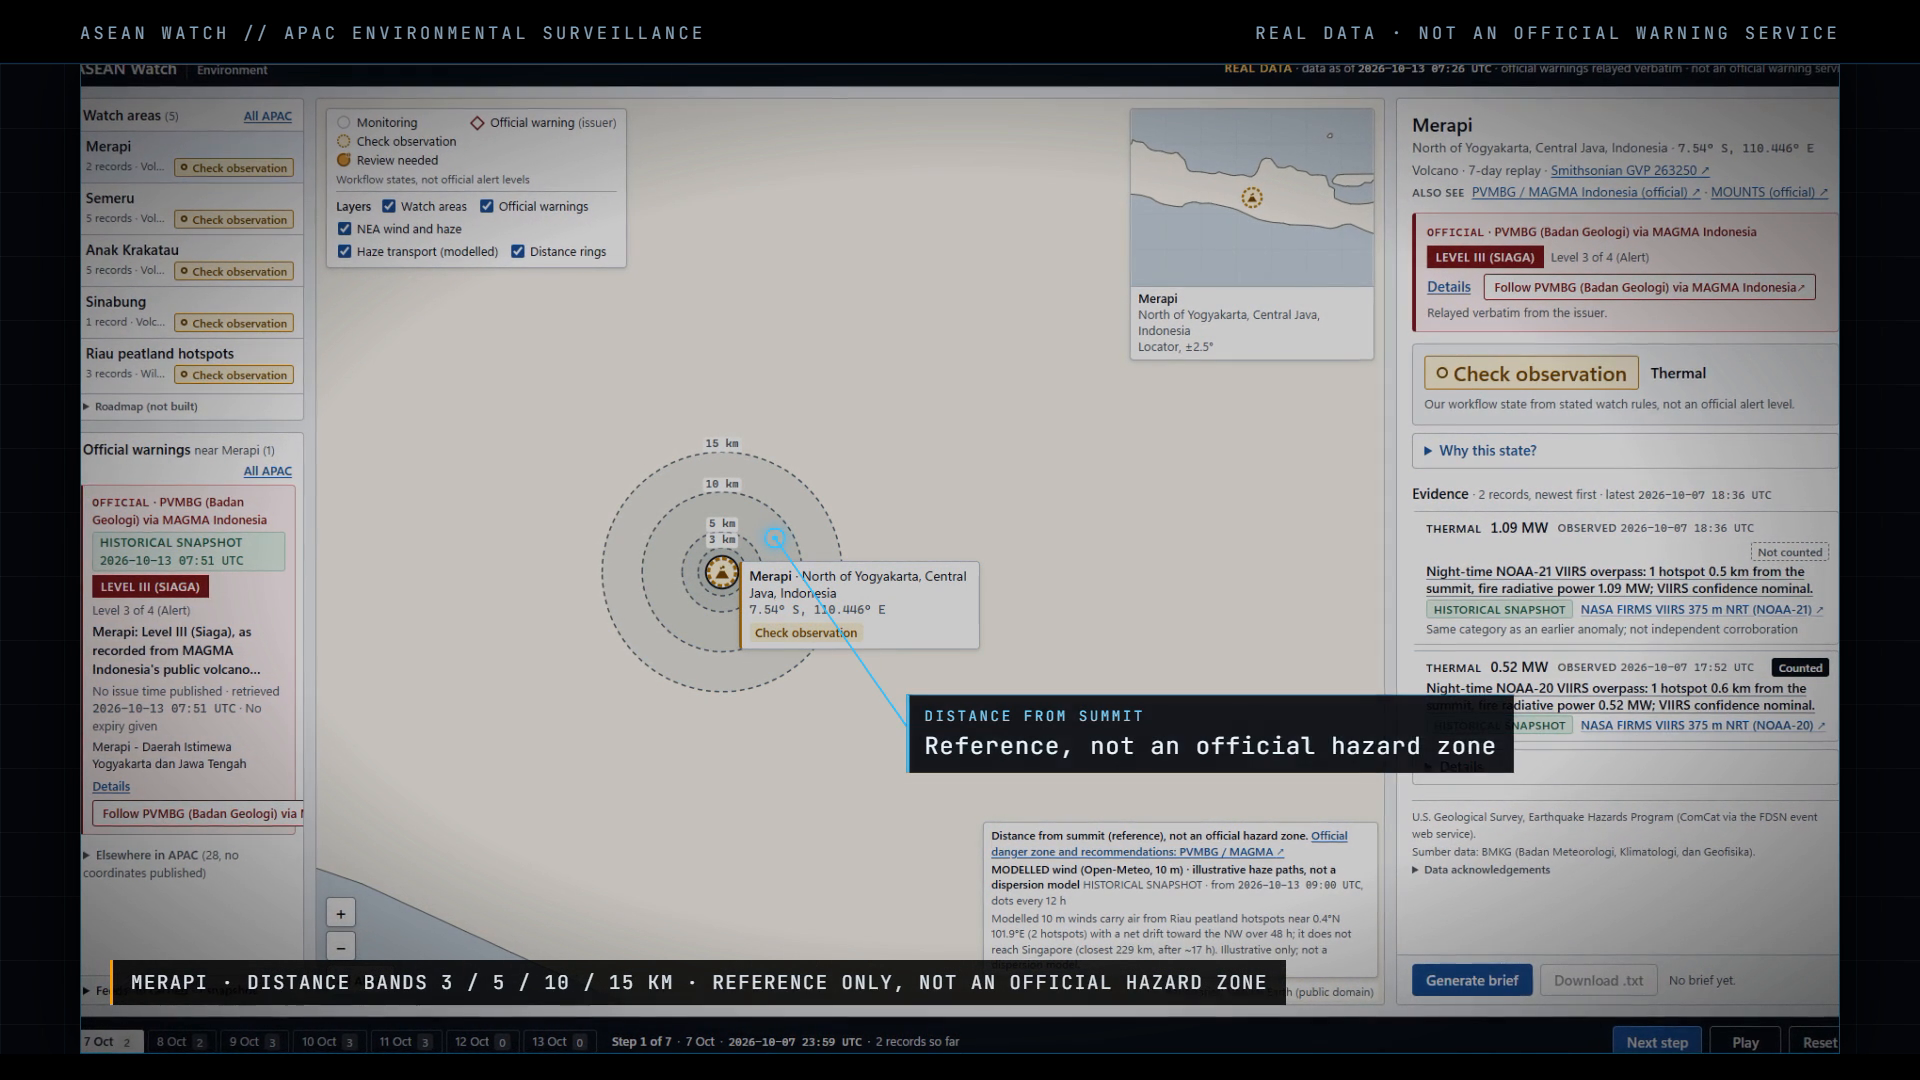
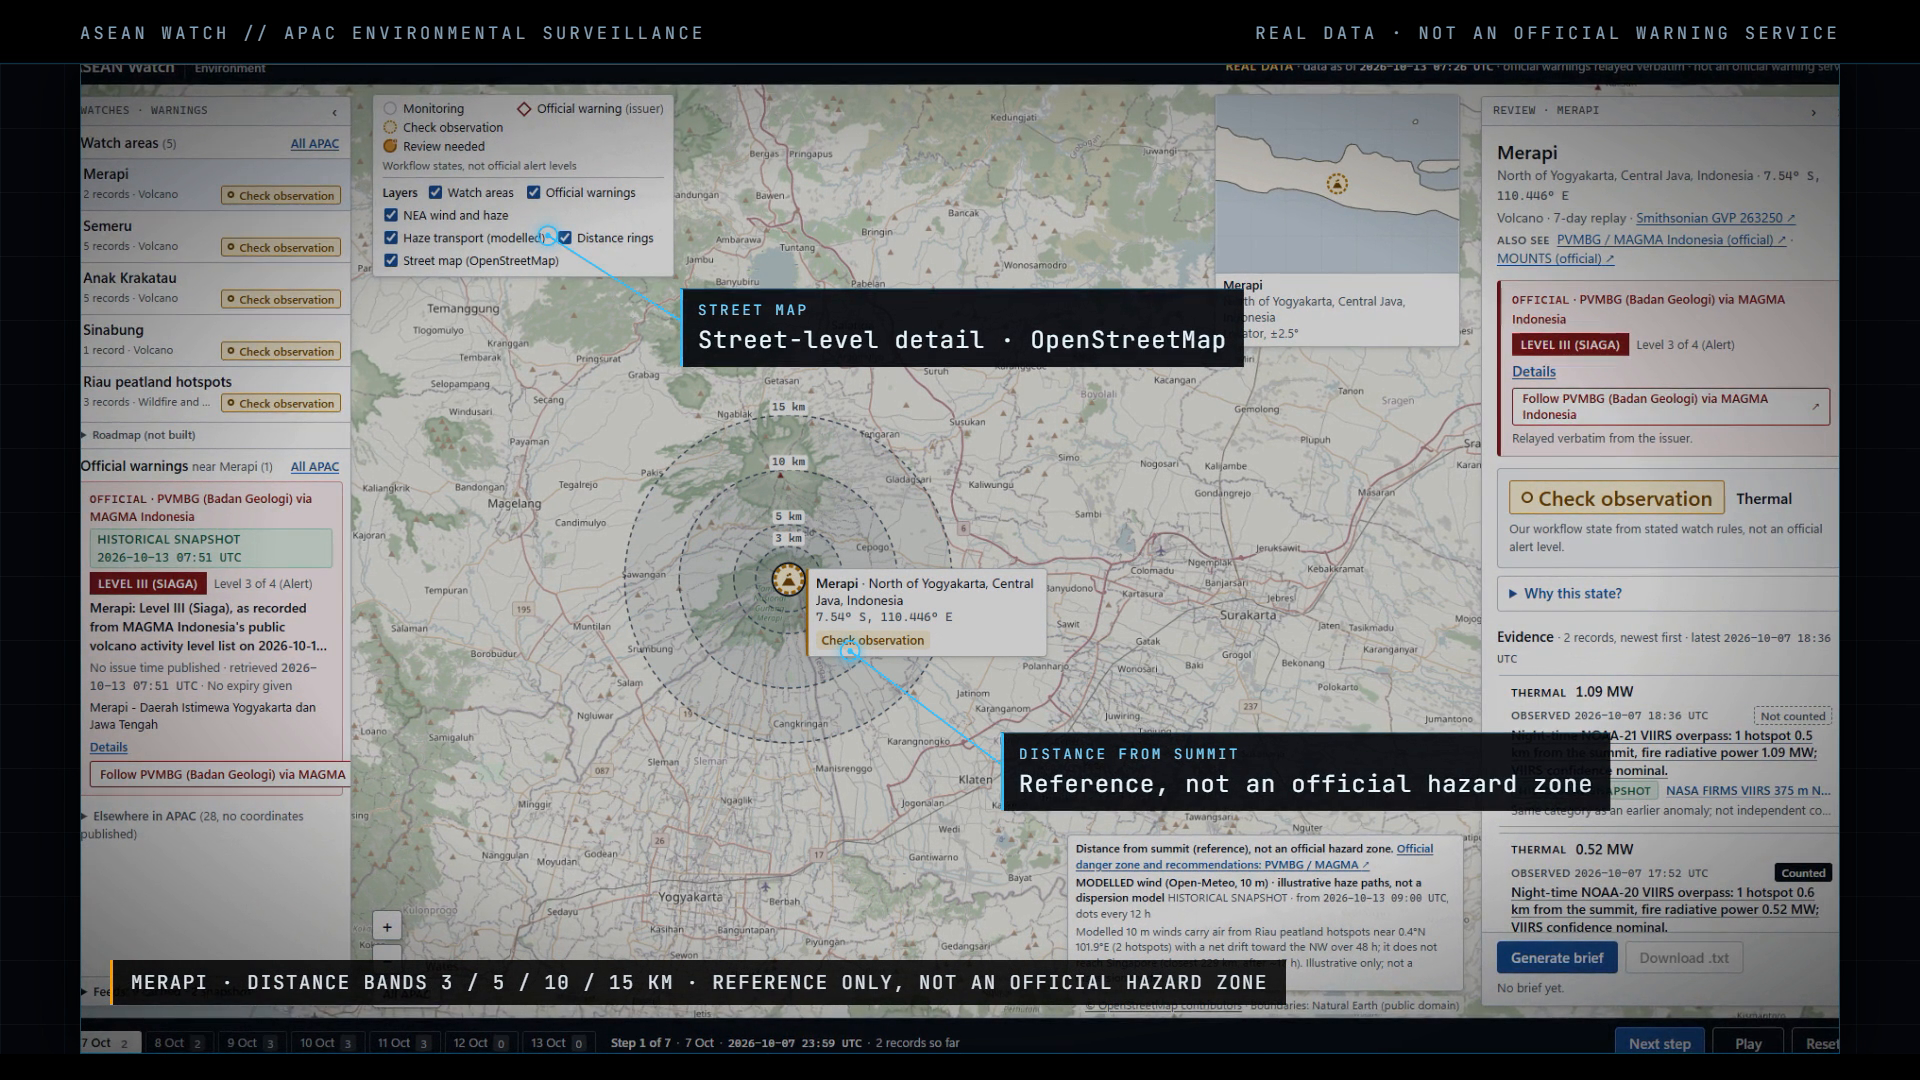
README: point to the v3 demo video (full-screen map) under a stable release asset name; update poster

Changed region(s): [[0.0312, 0.0611, 0.9688, 0.9778], [0.0312, 0.9167, 0.25, 0.9778], [0.2188, 0.5194, 0.25, 0.55]]

diff --git a/README.md b/README.md
@@ -8,9 +8,9 @@ ASEAN Watch is an Asia-Pacific environmental surveillance prototype that uses re
 
 ## Demo video (30 s)
 
-[![ASEAN Watch demo video](docs/media/demo-poster.png)](https://github.com/jensonrajawali10/asean-watch/releases/download/demo-2026-10-13/asean-watch-demo-30s-v2.mp4)
+[![ASEAN Watch demo video](docs/media/demo-poster.png)](https://github.com/jensonrajawali10/asean-watch/releases/download/demo-2026-10-13/asean-watch-demo-30s.mp4)
 
-[Watch or download the MP4](https://github.com/jensonrajawali10/asean-watch/releases/download/demo-2026-10-13/asean-watch-demo-30s-v2.mp4) (1920×1080, 20 MB) · [release notes](https://github.com/jensonrajawali10/asean-watch/releases/tag/demo-2026-10-13)
+[Watch or download the MP4](https://github.com/jensonrajawali10/asean-watch/releases/download/demo-2026-10-13/asean-watch-demo-30s.mp4) (1920×1080, 27 MB) · [release notes](https://github.com/jensonrajawali10/asean-watch/releases/tag/demo-2026-10-13)
 
 ## Quick start
 
